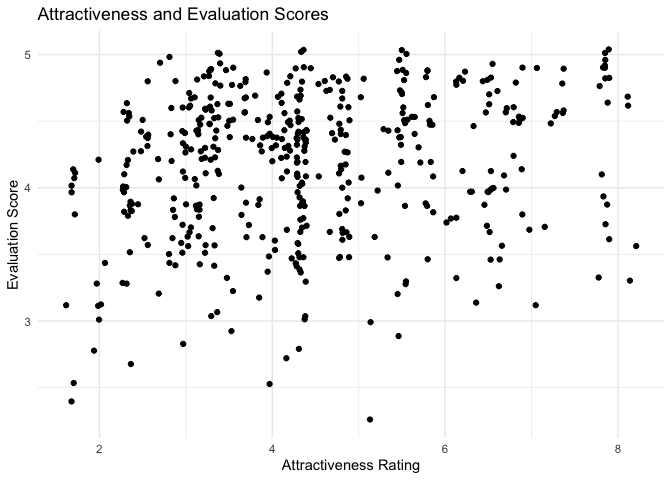
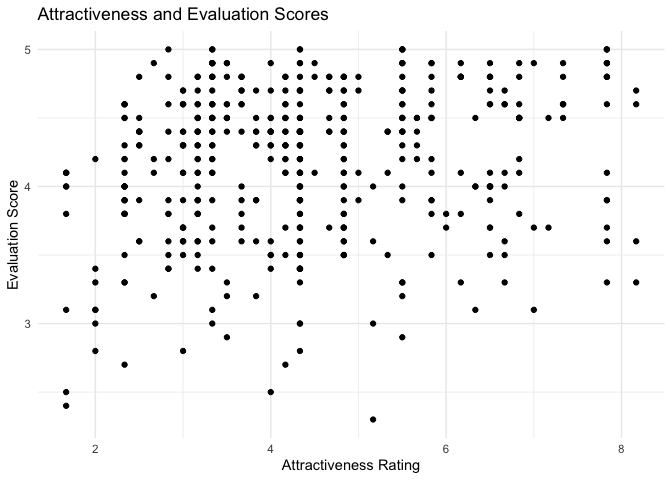
made r squared more explicit in exercise 2

diff --git a/lab-10.md b/lab-10.md
@@ -20,9 +20,10 @@ evals <- as.data.frame(evals)
 Before we model anything, let’s look at what students actually do with
 the evaluation scale.
 
-1.  The distribution is left skewed. Students are pretty generous -
-    there is clustering around the higher scores. The average score is a
-    4.3 and the median is 4.3. The minimum score is 2.3.
+1.  Evals is 463 rows and 23 columns. The distribution is left skewed.
+    Students are pretty generous - there is clustering around the higher
+    scores. The average score is a 4.3 and the median is 4.3. The
+    minimum score is 2.3.
 
 ``` r
 ggplot(evals, aes(x=score)) +
@@ -46,14 +47,20 @@ summary(evals$score) %>% tidy()
     ##     <dbl> <dbl>  <dbl> <dbl> <dbl>   <dbl>
     ## 1     2.3   3.8    4.3  4.17   4.6       5
 
+``` r
+dim(evals)
+```
+
+    ## [1] 463  23
+
 2.  It looks like there could be a ceiling effect. The scatterplot shows
-    a very weak positive association, but the concentration of high
-    evaluation scores makes interpretation challenging. Scores are all
-    over the place.
+    a very weak positive association, but without jitter you can’t
+    really get a sense of the concentration of dots. Scores are all over
+    the place.
 
 ``` r
 ggplot(evals, aes(x=bty_avg, y=score)) +
-  geom_jitter() +
+  geom_point() +
   labs(title = "Attractiveness and Evaluation Scores",
        x = "Attractiveness Rating",
        y = "Evaluation Score") +
@@ -62,17 +69,15 @@ ggplot(evals, aes(x=bty_avg, y=score)) +
 
 ![](lab-10_files/figure-gfm/unnamed-chunk-2-1.png)<!-- -->
 
-3.  Whoops I used jitter to begin with, because I looked at that regular
-    scatterplot and said “no.” Heres the plot without jitter. You can
-    also tell from this plot that there are a lot of high evaluation
-    scores and maybe there is a positve trend, but jitter is better.
-    Jitter shows more of the dots (if I’m not mistaken) which can help
-    highlight concentrations of observations with similar scores on x
-    and y.
+3.  Heres the plot with jitter. You can tell from this plot that there
+    are a lot of high evaluation scores and maybe there is a positve
+    trend. Jitter shows more of the dots (if I’m not mistaken) which can
+    help highlight concentrations of observations with similar scores on
+    x and y. Now it really looks like there is a ceiling effect.
 
 ``` r
 ggplot(evals, aes(x=bty_avg, y=score)) +
-  geom_point() +
+  geom_jitter() +
   labs(title = "Attractiveness and Evaluation Scores",
        x = "Attractiveness Rating",
        y = "Evaluation Score") +
@@ -88,7 +93,7 @@ natural variation.
 
 1.  A one-point increase in beauty predicts a .066 point increase in
     evaluation score. If someone had a beauty score of 0, their
-    predicted evaluation score is 3.88. Score = .066(beauty) + 3.88
+    predicted evaluation score is 3.88. y = .066x + 3.88
 
 ``` r
 m_bty <- linear_reg() %>%
